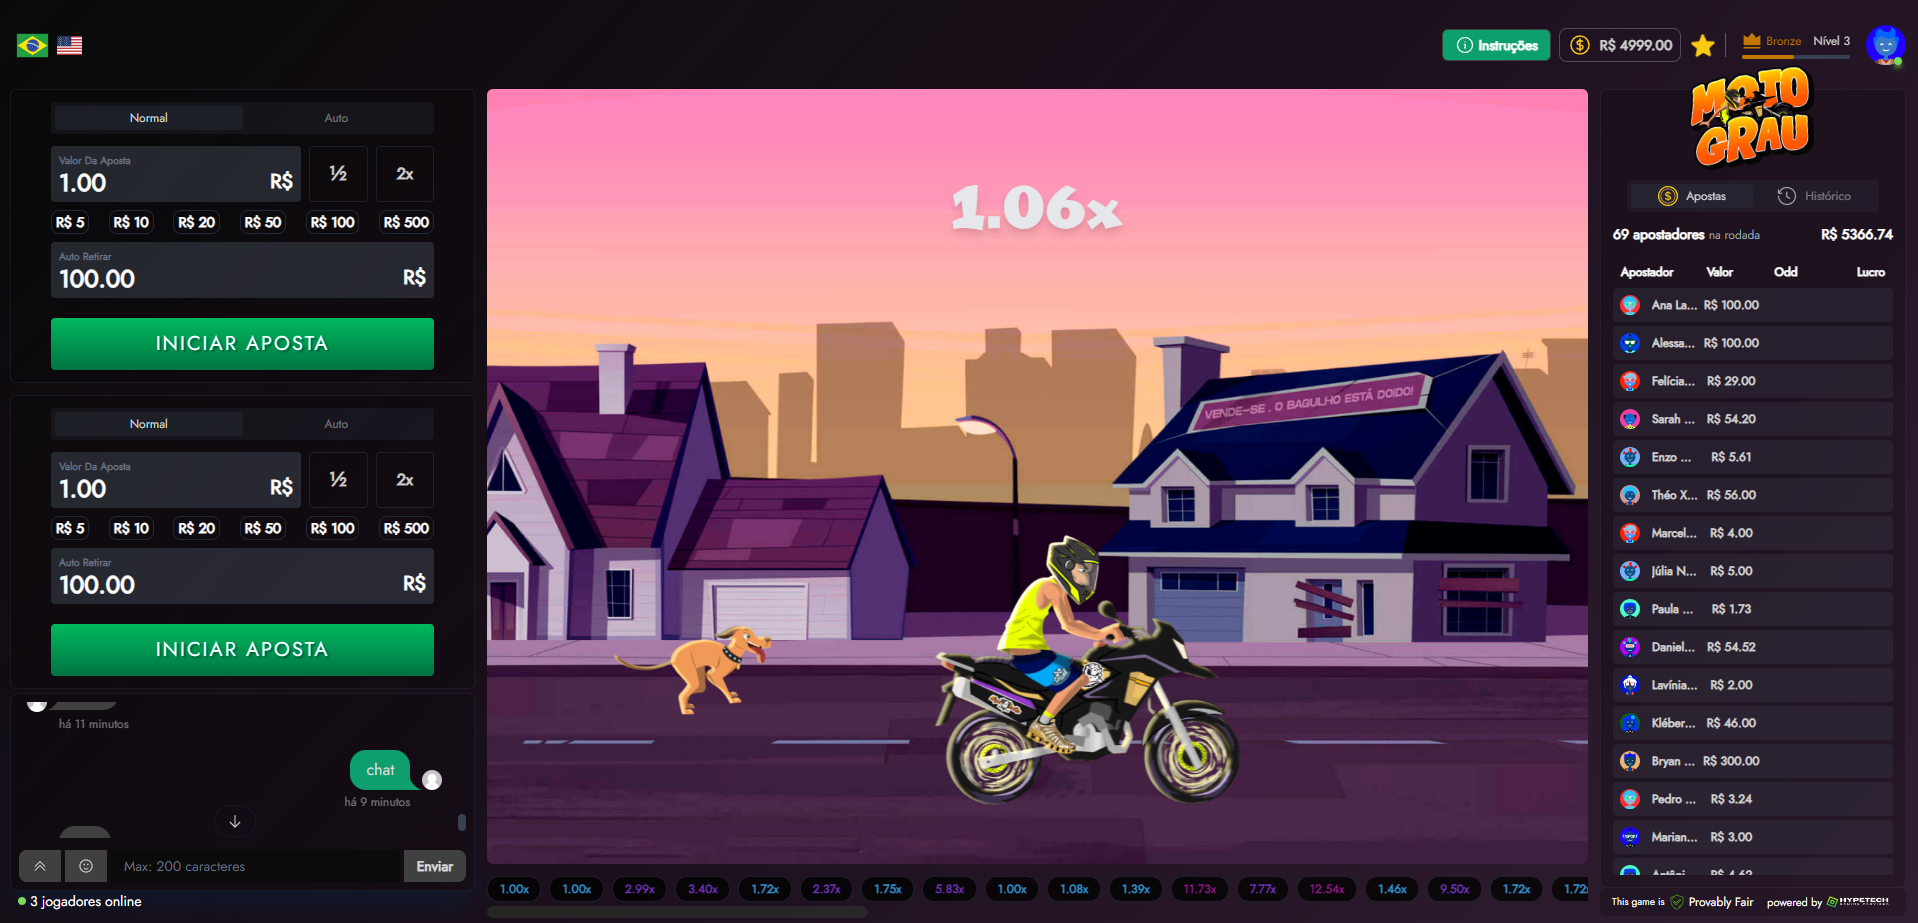
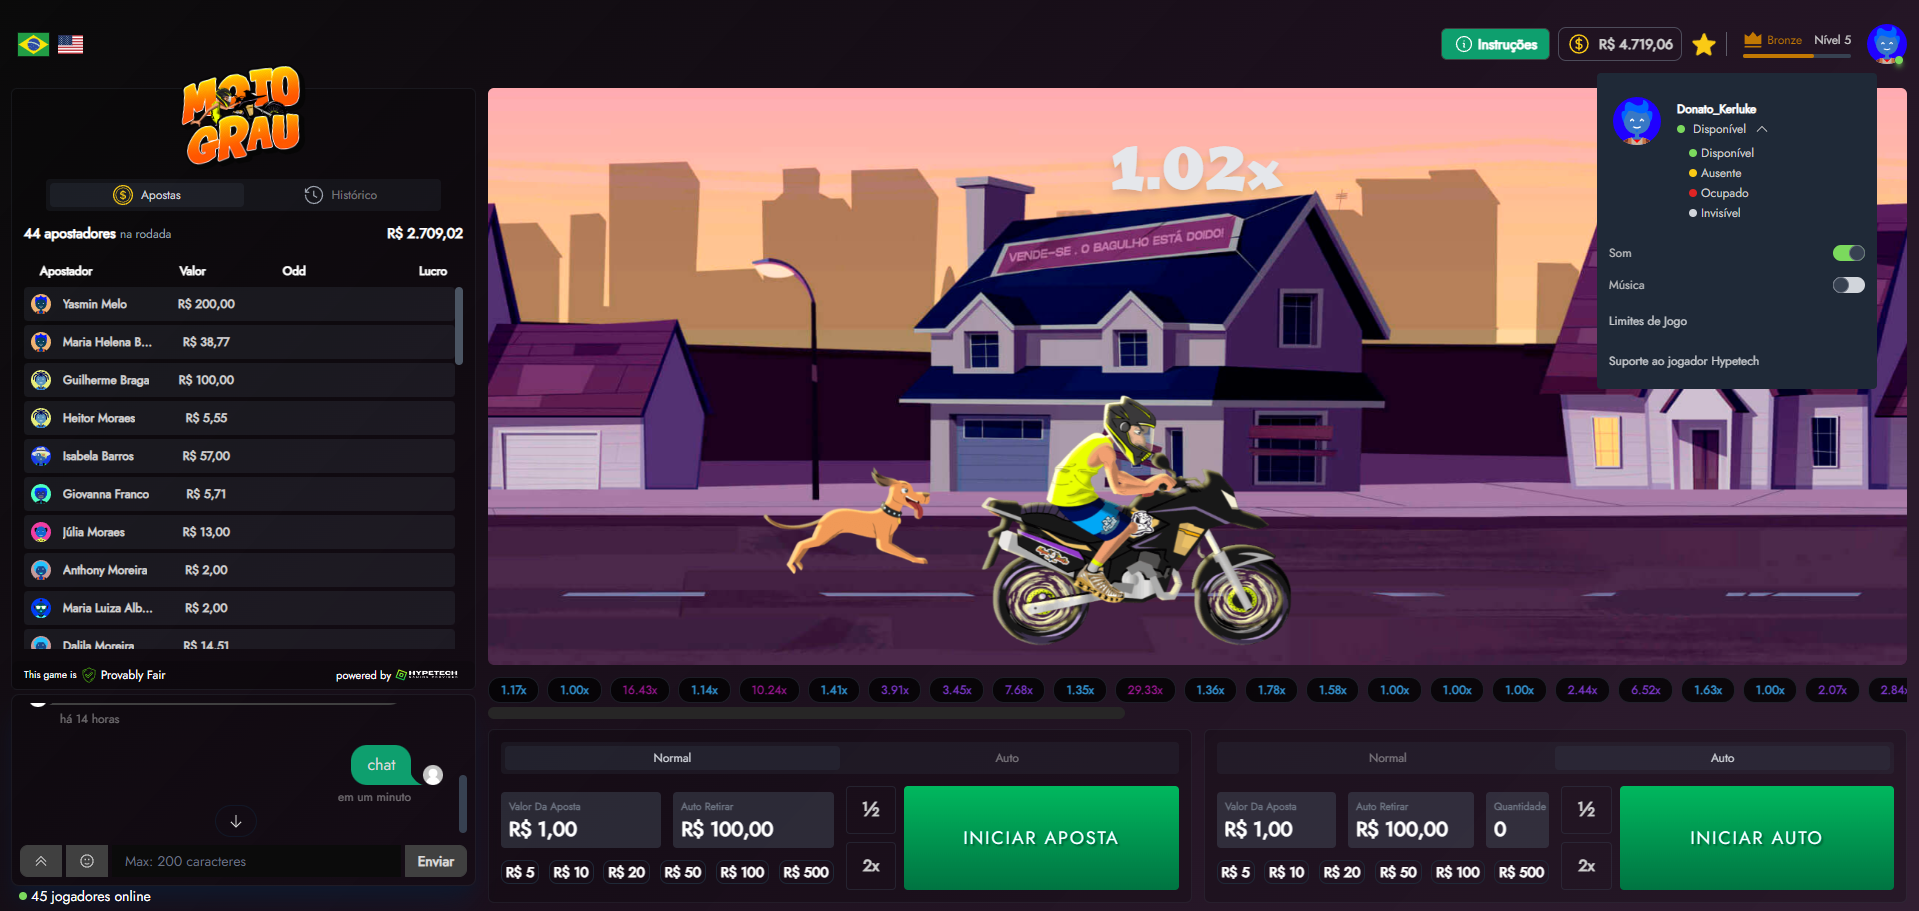
chore: update README and add new screenshots

diff --git a/README.md b/README.md
@@ -22,16 +22,23 @@ Neste desafio, trabalhei para aprimorar a interface do jogo **Motograu**, implem
 
 1. **Nova Interface para Desktop e Mobile:**
 
-   - **Objetivo da Mudança:** Aprimorei a interface do projeto, tornando-a responsiva para desktop e mobile.
+   - **Objetivo da Mudança:** Aprimorei a interface do projeto, tornando-a responsiva para desktop e dispositivos móveis.
    - **Pensamento por Trás da Mudança:**
      - **Layout Responsivo:** A interface foi reformulada para proporcionar uma experiência fluida tanto em desktop quanto em dispositivos móveis.
-     - **Organização Lógica:** O layout foi reestruturado para otimizar a experiência do usuário. Cerca de 90% da interação do usuário está concentrada no lado esquerdo, onde podem verificar o número de usuários conectados, enviar mensagens no chat (podendo ocultar o chat ou não), realizar apostas e trocar o idioma.
-     - **Componentes Centrais:** O núcleo da experiência do jogo foi destacado no centro da tela para fácil acesso e destaque.
-     - **Informações Adicionais:** Adicionei um painel à direita, fornecendo informações sobre as apostas e o histórico do usuário. O canto superior direito oferece acesso rápido ao perfil do usuário, status, classificação atual e à missão diária.
+     - **Organização Lógica:** O layout foi reestruturado para otimizar a experiência do usuário. No lado esquerdo, os usuários podem alterar o idioma, verificar informações sobre apostas da rodada e histórico, além de verificar o número de usuários conectados e enviar mensagens no chat (com opção de ocultar o chat).
+     - **Componentes Centrais:** O núcleo da experiência do jogo foi realçado no centro da tela para fácil acesso e destaque. O histórico do multiplicador das rodadas anteriores agora está abaixo da tela do jogo, junto com os botões de aposta.
+     - **Informações Adicionais:** O canto superior direito oferece acesso rápido ao perfil do usuário, status, classificação atual e à missão diária.
      - **Versão Mobile:** Na versão mobile, algumas adaptações foram feitas, como a movimentação do ranking para o perfil e a exibição dos usuários online no topo da aplicação.
 
-   ![Nova Interface em Desktop](screenshots/desktop.png)
-   ![Nova Interface em Mobile](screenshots/mobile.png)
+### Desktop
+
+![Nova Interface em Desktop](screenshots/desktop.png)
+Aprimoramentos no layout para oferecer uma experiência otimizada em desktop.
+
+### Mobile
+
+![Nova Interface em Mobile](screenshots/mobile.png)
+Adaptações específicas para garantir uma experiência ideal em dispositivos móveis.
 
 2. **Incluído Novos Componentes:**
 
